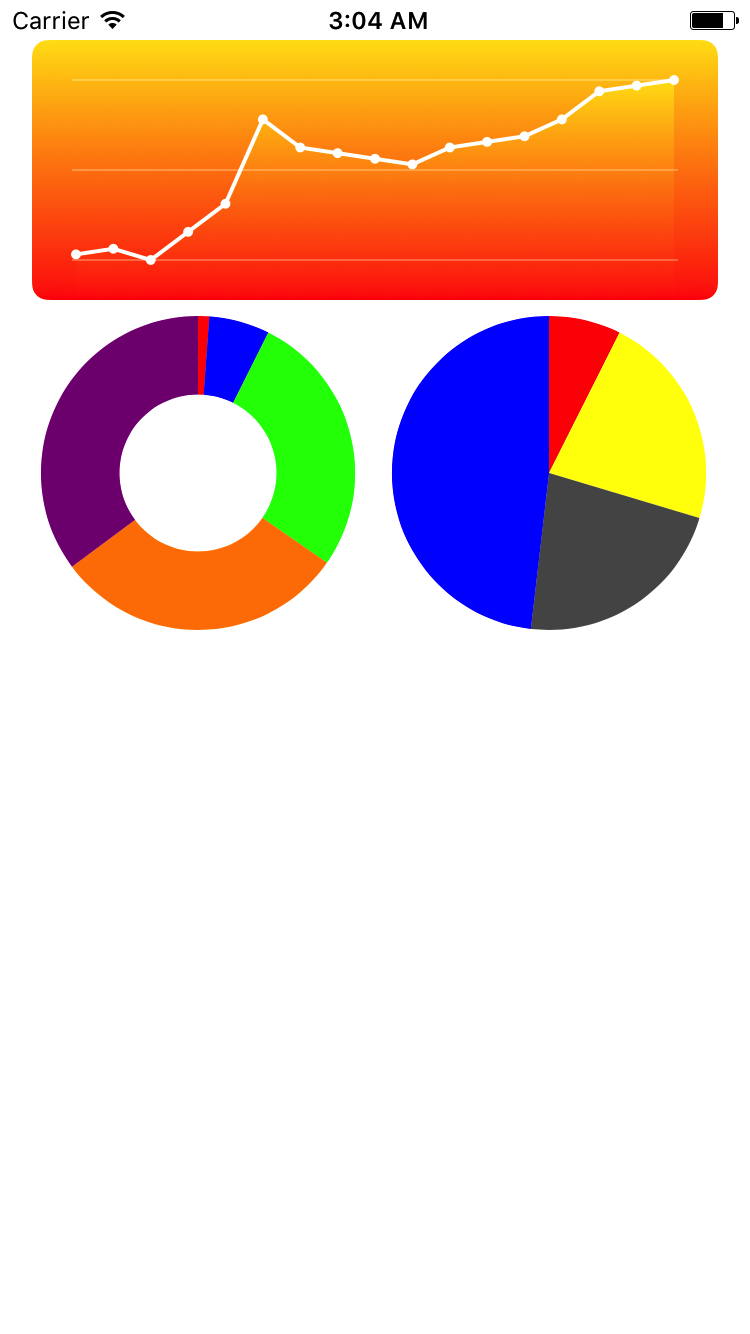
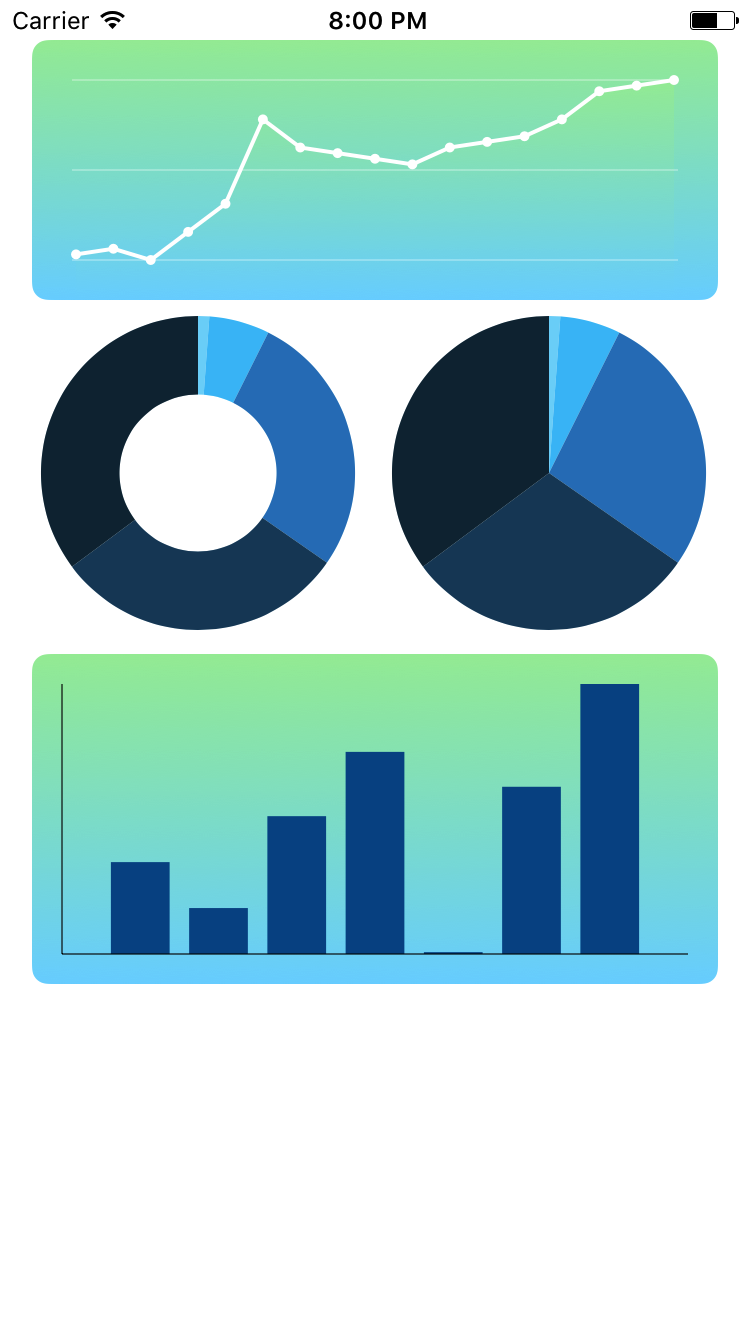
Basic implementation for bar chart

diff --git a/SwiftCharts/SimpleBarChartView.swift b/SwiftCharts/SimpleBarChartView.swift
@@ -1,0 +1,114 @@
+import UIKit
+
+@IBDesignable public class SimpleBarChartView: UIView {
+
+    @IBInspectable public var startColor: UIColor = UIColor.red
+    @IBInspectable public var endColor: UIColor = UIColor.orange
+    @IBInspectable public var margin: CGFloat = 20.0
+    @IBInspectable public var axisColor: UIColor = UIColor(white: 1.0, alpha: 0.3)
+    @IBInspectable public var defaultBarColor: UIColor = UIColor(white: 1.0, alpha: 0.3)
+    
+    var chartData:[SimpleBarChartData] = []
+
+    override public init(frame: CGRect) {
+        super.init(frame: frame)
+    }
+    
+    convenience public init( graphPoints: [Int] ) {
+        self.init(frame: CGRect.zero)
+    }
+    
+    required public init?(coder aDecoder: NSCoder) {
+        super.init(coder: aDecoder)
+    }
+    
+    public override func draw(_ rect: CGRect) {
+        let width = rect.width
+        let height = rect.height
+        
+        //set up background clipping area
+        let path = UIBezierPath(roundedRect: rect,
+                                byRoundingCorners: UIRectCorner.allCorners,
+                                cornerRadii: CGSize(width: 8.0, height: 8.0))
+        path.addClip()
+        //2 - get the current context
+        let context = UIGraphicsGetCurrentContext()
+        let colors = [startColor.cgColor, endColor.cgColor] as CFArray
+        //3 - set up the color space
+        let colorSpace = CGColorSpaceCreateDeviceRGB()
+        //4 - set up the color stops
+        let colorLocations:[CGFloat] = [0.0, 1.0]
+        //5 - create the gradient
+        let gradient = CGGradient(colorsSpace: colorSpace,
+                                  colors: colors,
+                                  locations: colorLocations)
+        //6 - draw the gradient
+        let startPoint = CGPoint.zero
+        let endPoint = CGPoint(x:0, y:self.bounds.height)
+        context!.drawLinearGradient(gradient!,
+                                    start: startPoint,
+                                    end: endPoint,
+                                    options: CGGradientDrawingOptions(rawValue: 0))
+        
+        // math on x axis
+        let availableSpaceOnX = self.bounds.width - (2*margin)
+        let numberOfBars = chartData.count
+        let numberOfGaps = numberOfBars+1
+        let gapFactor:CGFloat = 0.25
+        let division = availableSpaceOnX/CGFloat(numberOfGaps)
+        let pathWidth = division - (division*gapFactor)
+        var xCursor = division + margin
+        
+        // math on y axis
+        let maxValueOfData = self.maxValueOfData()
+        let availableSpaceOnY = self.bounds.height - (2*margin)
+        
+        //draw bars
+        for data in chartData {
+            let barPath = UIBezierPath()
+            barPath.move(to: CGPoint(x: xCursor, y: height-margin))
+            
+            let yCursor = availableSpaceOnY*CGFloat(data.value/maxValueOfData)
+                
+            barPath.addLine(to: CGPoint(x: xCursor, y: height-margin-yCursor))
+            
+            xCursor = xCursor+division
+            barPath.lineWidth = pathWidth
+            if let color = data.color  {
+                color.setStroke()
+            } else {
+                defaultBarColor.setStroke()
+            }
+            barPath.stroke()
+            barPath.fill()
+        }
+        
+        //draw axis
+        let axisPath = UIBezierPath()
+        axisPath.move(to: CGPoint(x: margin, y: height-margin))
+        axisPath.addLine(to: CGPoint(x: width - margin, y: height-margin))
+        axisPath.move(to: CGPoint(x:margin, y: height-margin))
+        axisPath.addLine(to: CGPoint(x: margin, y: margin))
+        axisColor.setStroke()
+        axisPath.lineWidth = 0.5
+        axisPath.stroke()
+    }
+    
+    private func maxValueOfData() -> Double {
+        if self.chartData.count == 0 {
+            return 0
+        }
+        var maxValue:Double = 0
+        for data in self.chartData {
+            if data.value > maxValue {
+                maxValue = data.value
+            }
+        }
+        return maxValue
+    }
+    
+    public func setData(newData:[SimpleBarChartData]) {
+        self.chartData = newData
+        self.setNeedsDisplay()
+    }
+}

diff --git a/SwiftCharts/ChartModel/SimpleBarChartData.swift b/SwiftCharts/ChartModel/SimpleBarChartData.swift
@@ -1,0 +1,19 @@
+import Foundation
+import UIKit
+
+public class SimpleBarChartData {
+    let label: String
+    let value: Double
+    var color: UIColor?
+    
+    public init(label:String, value:Double, color:UIColor) {
+        self.label = label
+        self.value = value
+        self.color = color
+    }
+    
+    public init(label:String, value:Double) {
+        self.label = label
+        self.value = value
+    }
+}

diff --git a/README.md b/README.md
@@ -48,6 +48,21 @@ pieChartData.append(DonutChartData(label: "Label2", value: 200, color: UIColor.b
 pieChartView.setChartData(chartData: pieChartData)
 ```
 
+##### SimpleBarChartView
+Create reference
+```swift
+@IBOutlet weak var simpleBarChartView: SimpleBarChartView!
+```
+Updating data:
+```swift
+var simpleBarChartData:[SimpleBarChartData] = []
+simpleBarChartData.append(SimpleBarChartData(label: "label1", value: 100))
+simpleBarChartData.append(SimpleBarChartData(label: "label2", value: 50))
+//or if you don`t wanna to use default color setted on attribute inspector
+simpleBarChartData.append(SimpleBarChartData(label: "label3", value: 150, color: UIColor.blue))
+self.simpleBarChartView.setData(newData: simpleBarChartData)
+```
+
 ##### Basic example
 <p align="center">
     <img src="Images/screenshot.png" width="200"/>
